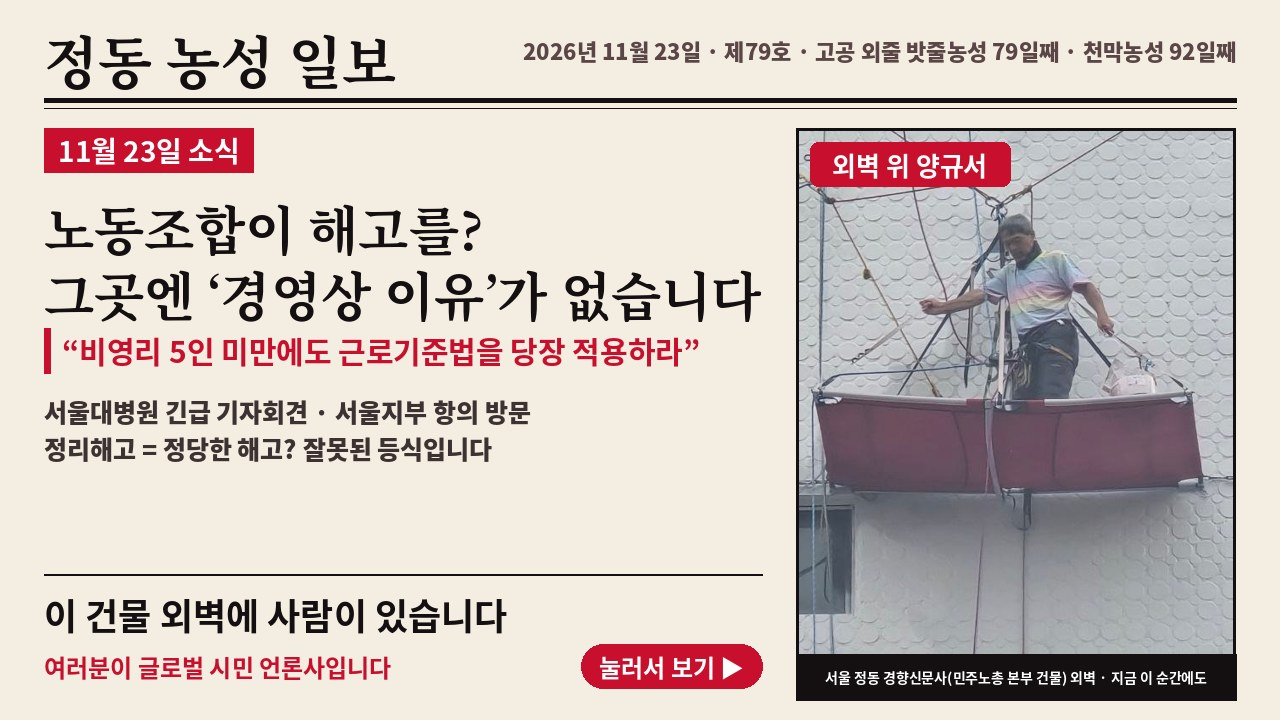
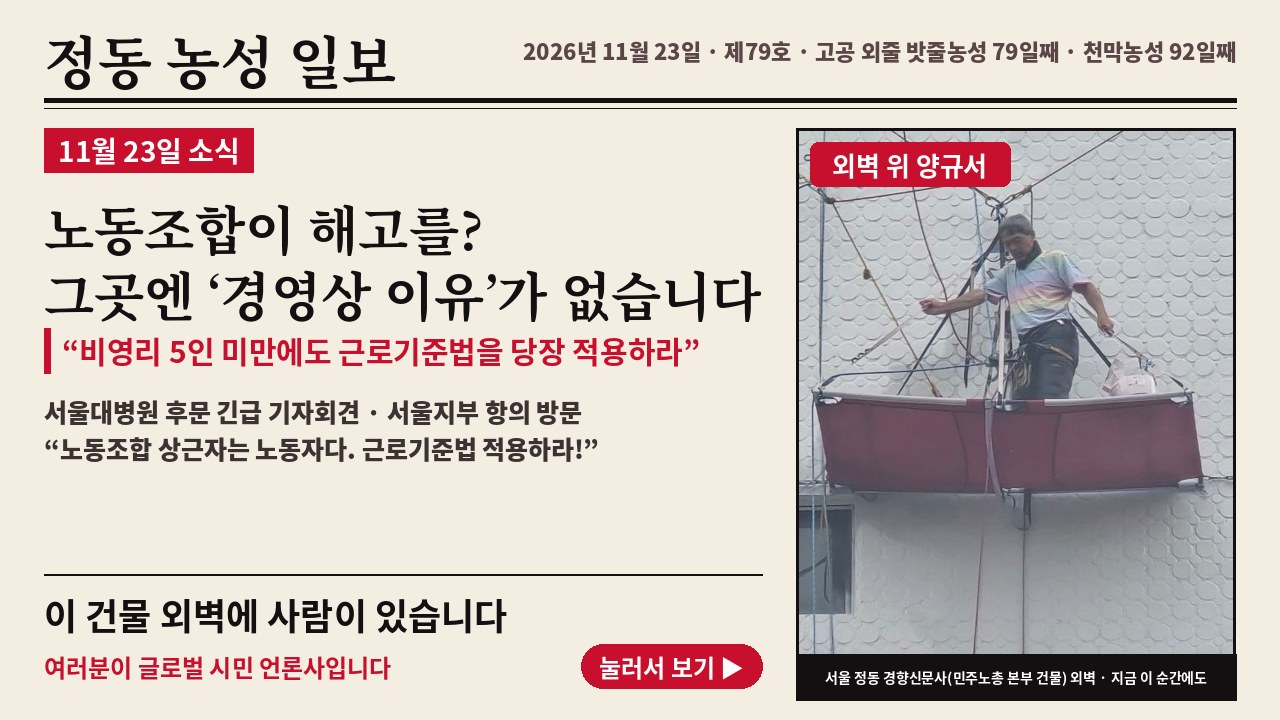
썸네일 11.23 기자회견 구호 반영
Claude-Session: https://claude.ai/code/session_01Tz8GkWvPmrVzZC7uufwenE

Changed region(s): [[0.0312, 0.55, 0.4688, 0.6417]]

diff --git a/index.html b/index.html
@@ -7,10 +7,10 @@
 <meta property="og:site_name" content="정동 고공 외줄 밧줄농성">
 <meta property="og:title" content="이 건물 외벽에 사람이 있습니다 | 정동 고공 외줄 밧줄농성">
 <meta property="og:description" content="[11.23 소식] 오후 2시 서울대병원 후문 긴급 기자회견 ‘노동조합 상근자는 노동자다. 근로기준법 적용하라!’(함계남 외 공대위 참가자들): ‘사용자’ 민주노총 공공운수노조 의료연대본부 서울지부를 규탄하고 ‘비영리 5인 미만 사업장에 근로기준법을 당장 적용하라’고 요구했습니다 / 이어 서울대병원 지하 1층 서울지부 사무실을 항의 방문했습니다 / 특종: 집단사직 종용 녹취록 공개 · 여러분이 글로벌 시민 언론사입니다">
-<meta property="og:image" content="https://yky1234x.github.io/jeongdong/share.jpg?v=202611231631">
+<meta property="og:image" content="https://yky1234x.github.io/jeongdong/share.jpg?v=202611231634">
 <meta property="og:image:width" content="1280"><meta property="og:image:height" content="720">
 <meta name="twitter:card" content="summary_large_image">
-<meta name="twitter:image" content="https://yky1234x.github.io/jeongdong/share.jpg?v=202611231631">
+<meta name="twitter:image" content="https://yky1234x.github.io/jeongdong/share.jpg?v=202611231634">
 <style>:root{color-scheme:light;padding-top:env(safe-area-inset-top,0px);padding-bottom:env(safe-area-inset-bottom,0px)}body{margin:0;font-family:system-ui,-apple-system,"Apple SD Gothic Neo","Malgun Gothic",sans-serif;font-size:14px}img{max-width:100%}[hidden]{display:none!important}</style>
 </head><body>
 <link rel="preconnect" href="https://fonts.googleapis.com">
